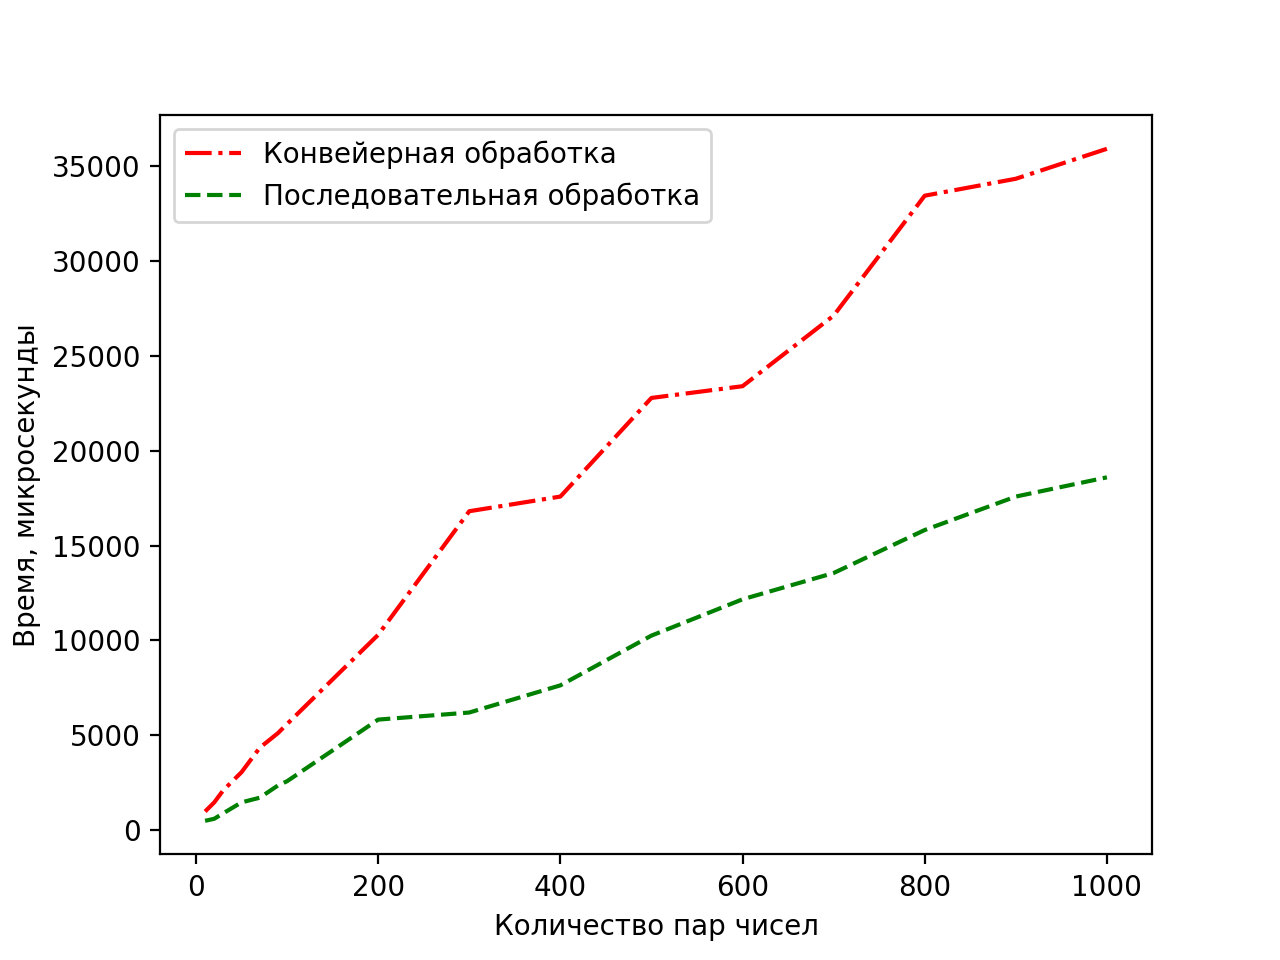
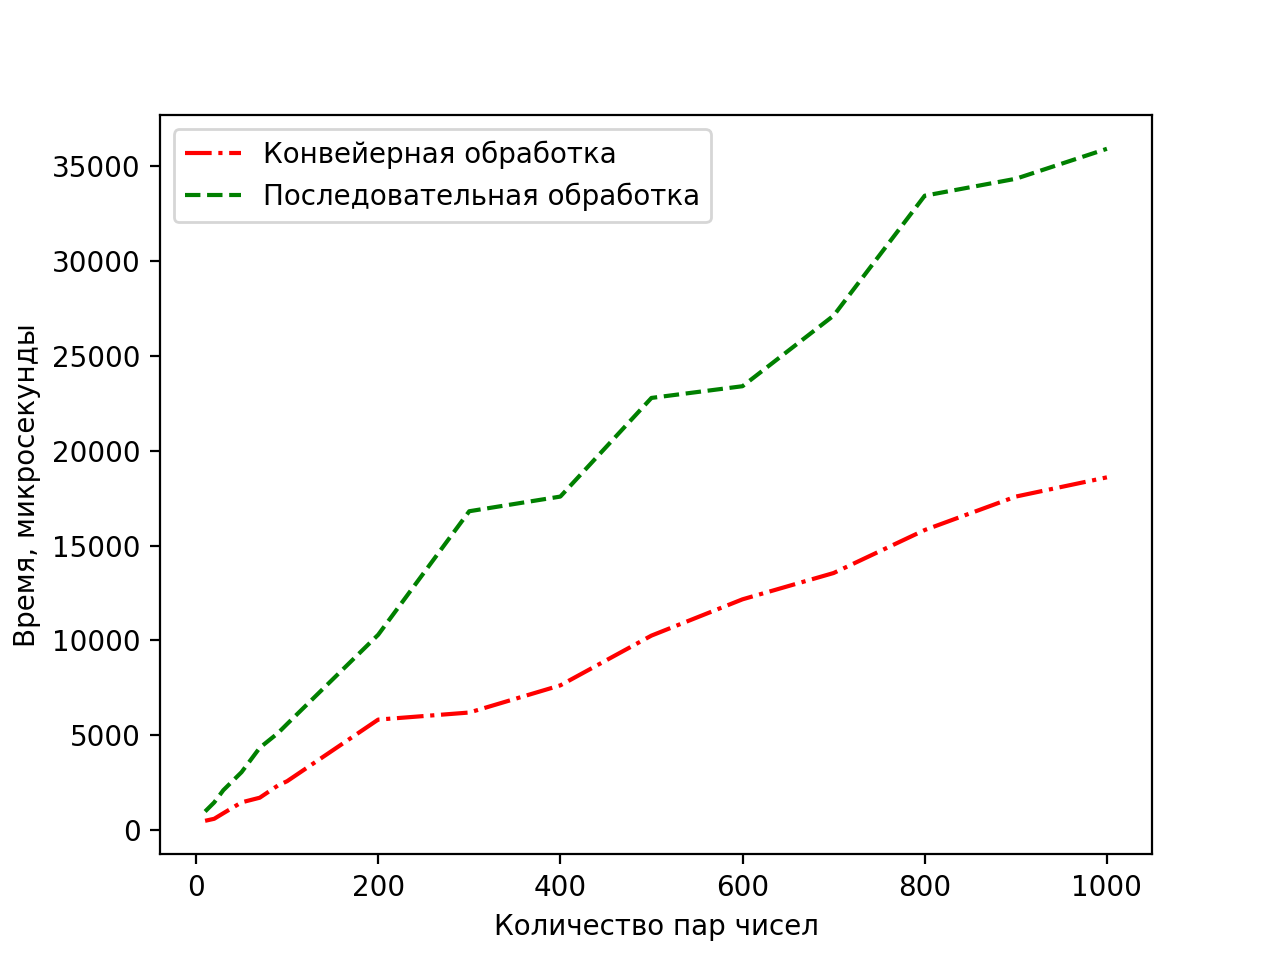
Added graphic

diff --git a/lab5/graph.py b/lab5/graph.py
@@ -14,7 +14,7 @@ f.close()
 
 pylab.xlabel('Количество пар чисел')
 pylab.ylabel('Время, микросекунды')
-pylab.plot(xlist, ylist0, 'r-.', label = 'Конвейерная обработка')
-pylab.plot(xlist, ylist1, 'g--', label = 'Последовательная обработка')
+pylab.plot(xlist, ylist1, 'r-.', label = 'Конвейерная обработка')
+pylab.plot(xlist, ylist0, 'g--', label = 'Последовательная обработка')
 pylab.legend(loc='upper left')
 pylab.show()
